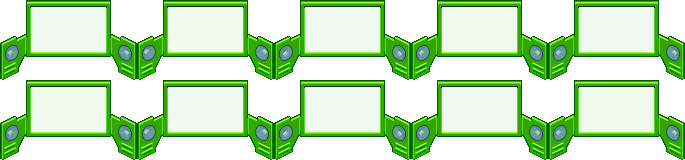
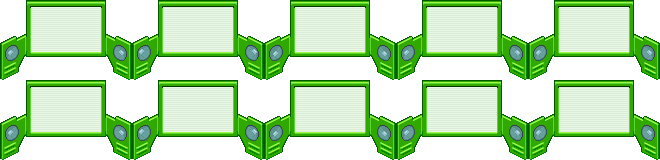
fixes

diff --git a/assets/tiles/screen-border-full.tsx b/assets/tiles/screen-border-full.tsx
@@ -1,6 +1,7 @@
 <?xml version="1.0" encoding="UTF-8"?>
-<tileset version="1.8" tiledversion="1.8.6" name="screen-border-full" tilewidth="137" tileheight="80" tilecount="10" columns="5" objectalignment="top">
- <image source="screen-border-full.png" width="685" height="160"/>
+<tileset version="1.8" tiledversion="1.8.6" name="screen-border-full" tilewidth="132" tileheight="80" tilecount="10" columns="5" objectalignment="bottom">
+ <tileoffset x="0" y="40"/>
+ <image source="screen-border-full.png" width="660" height="160"/>
  <tile id="0">
   <animation>
    <frame tileid="0" duration="500"/>
